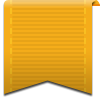
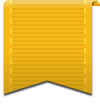
Ribbon colors now pertain to size of activity, not the percentage of completion

diff --git a/Mac OS X/pomodorable/Views/PomodoroBadgeView.m b/Mac OS X/pomodorable/Views/PomodoroBadgeView.m
@@ -28,12 +28,6 @@
 
 - (NSImage *)ribbonForPercentageComplete
 {
-    float ribbonNumberTag = 1;
-    float divisionalSlice = 1.0f / MAX_EGG_COUNT;
-    if(self.plannedPomodoroCount)
-        ribbonNumberTag = ((float)self.completePomodoroCount / (float)self.plannedPomodoroCount) / divisionalSlice;
-    
-    ribbonNumberTag = MAX(ribbonNumberTag, 1);
     NSString *imageName = nil;
     if(self.completePomodoroCount > self.plannedPomodoroCount)
     {
@@ -41,11 +35,9 @@
     }
     else
     {
-        //round off 
-        int ribbonNumber = ((int)(ribbonNumberTag * 100 + 0.5)) / 100.0;
-        imageName = [NSString stringWithFormat:@"ribbon%d", (int)ribbonNumber];
+        imageName = [NSString stringWithFormat:@"ribbon%d", (int)self.plannedPomodoroCount];
     }
-    
+
     return [NSImage imageNamed:imageName];
 }
 
@@ -107,7 +99,7 @@
     }
     else
     {
-        [[NSImage imageNamed:@"ribbon8"] drawInRect:r fromRect:r operation:NSCompositeSourceOver fraction:1];
+        [[NSImage imageNamed:@"ribbonComplete"] drawInRect:r fromRect:r operation:NSCompositeSourceOver fraction:1];
         
         //draw the check mark
         NSDictionary *d = [self attributesForFontName:@"Helvetica" withSize:24];
